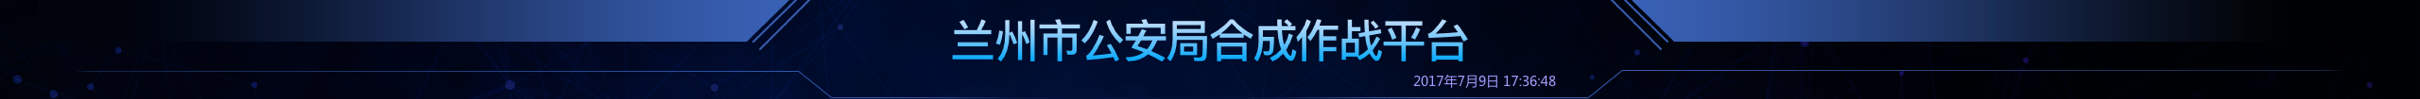
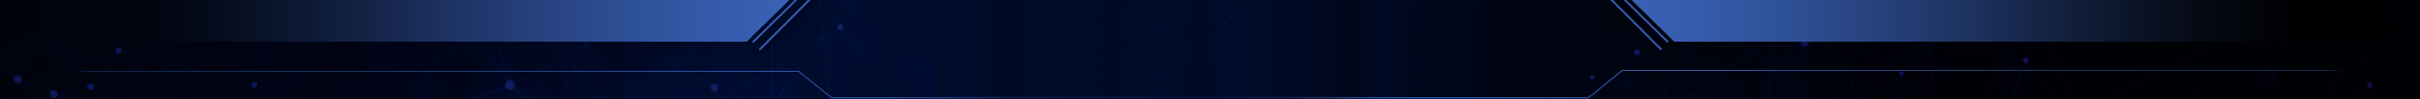
fix: 优化header

Changed region(s): [[0.3719, 0.1818, 0.6198, 0.6364], [0.5888, 0.7576, 0.6508, 0.8788]]

diff --git a/src/pages/home.tsx b/src/pages/home.tsx
@@ -17,10 +17,13 @@ import LocalChart2 from '../components/LocalChart2';
 import { Table } from '../components/Table';
 
 export const Home = () => {
-  const year = new Date().getFullYear() + '-' + (new Date().getMonth()+1) + '-' + new Date().getDate();
+  const year = new Date().getFullYear() + '' + (new Date().getMonth()+1) + '-' + new Date().getDate();
   return (
     <div className="home">
-      <header style={{backgroundImage: `url(${headerBg})`}}/>
+      <header style={{backgroundImage: `url(${headerBg})`}}>
+        <h1>全国疫情观察平台</h1>
+        {/* <span className="time">{year}</span> */}
+      </header>
       <main>
         <section className="section1">
           {/* 重要区域统计 */}

diff --git a/src/pages/home.scss b/src/pages/home.scss
@@ -8,6 +8,26 @@
     background-size: cover;
     width: px(2420);
     margin: 0 auto;
+    display: flex;
+    // align-items: center;
+    justify-content: center;
+    position: relative;    
+    >h1{
+      margin-top: px(16);
+      font-size: px(40);
+      // background: linear-gradient(to right, red, blue);
+      // -webkit-background-clip: text;
+      color: transparent;
+      background-image:-webkit-linear-gradient(bottom,#5197FF,#80F2FF);
+      -webkit-background-clip:text;
+    }
+    >.time{
+      position: absolute;
+      bottom: 0;
+      right: px(840);
+      font-size: px(12);
+      color: #9288e3;
+    }
   }
 
   > main {
